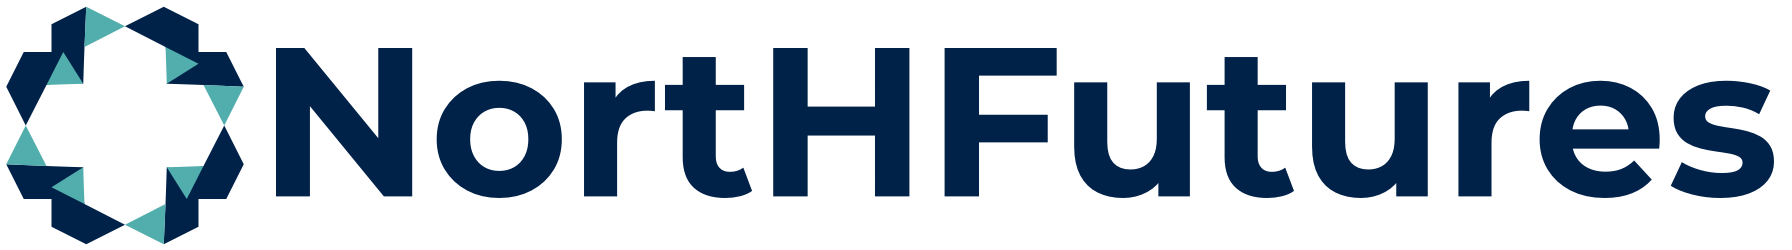
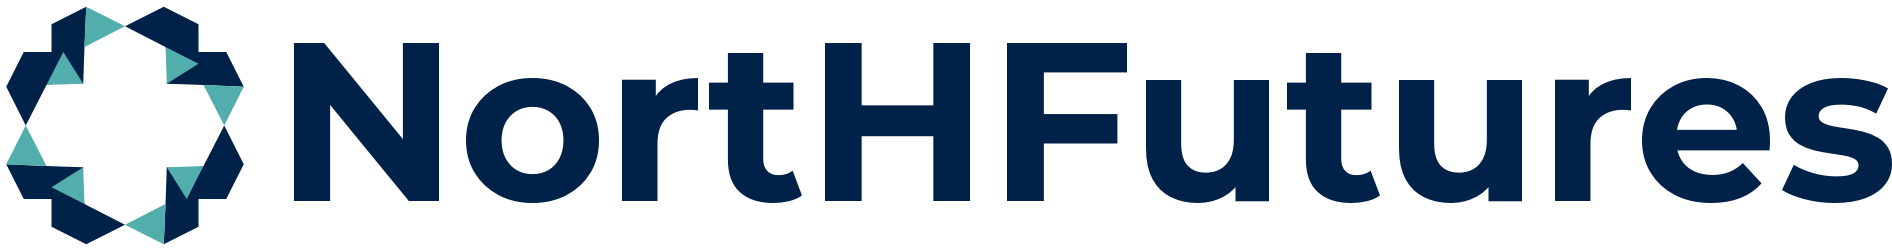
updates and fixes
- increase upload size
- reduce title sizes
- bigger heros
- update brand
- fix twitter link
- add ids to about sections
- about logo improvements

Changed region(s): [[0.0312, 0.028, 1.0, 0.98], [0.1562, 0.784, 0.1875, 0.812]]

diff --git a/theme/assets/css/globals.css b/theme/assets/css/globals.css
@@ -54,21 +54,18 @@ body > main {
 }
 
 h1 {
-	font-size: var(--t6);
-}
-h2 {
 	font-size: var(--t5);
 }
-h3 {
+h2 {
 	font-size: var(--t4);
 }
-h4 {
+h3 {
 	font-size: var(--t3);
 }
-h5 {
+h4 {
 	font-size: var(--t2);
 }
-h6 {
+h5 {
 	font-size: var(--t1);
 }
 small {

diff --git a/theme/assets/css/site.css b/theme/assets/css/site.css
@@ -34,7 +34,7 @@ body > .bigBoldCard {
 	display: flex;
 	justify-content: center;
 	align-items: center;
-	max-height: 40vh;
+	max-height: 60vh;
 	position: relative;
 }
 .siteHero > img {
